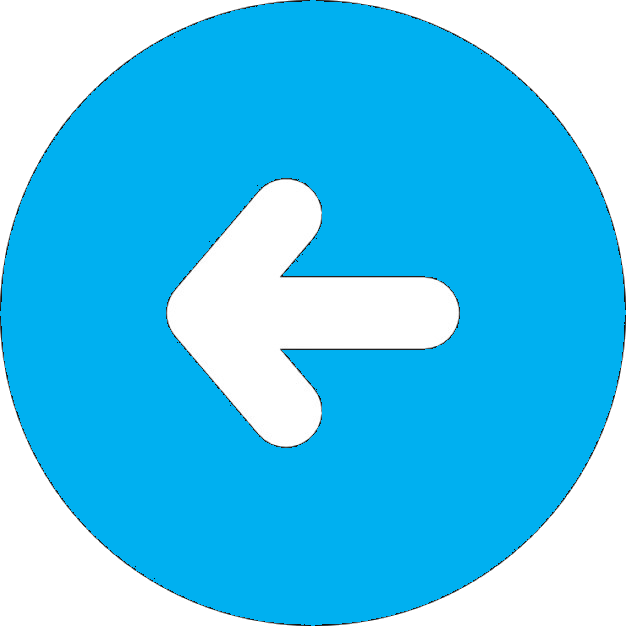
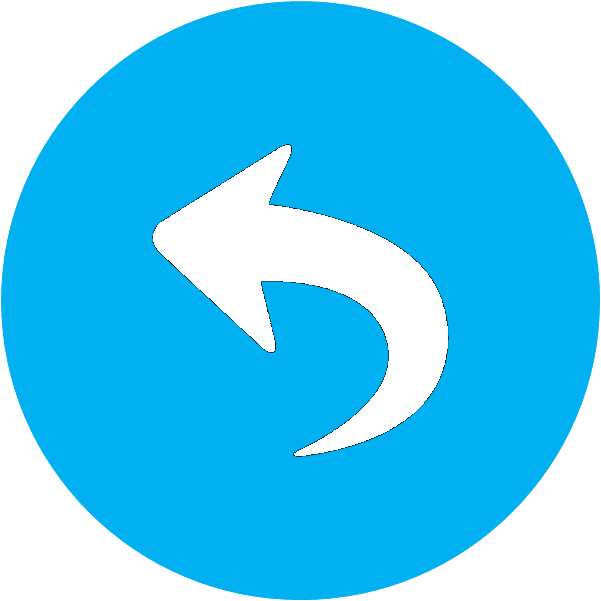
upload back image and exit image

diff --git a/MyGemach/components/items.js b/MyGemach/components/items.js
@@ -332,11 +332,11 @@ searchByText(text){
           <View style={{flex:1, flexDirection: 'row', alignItems:'center'}}>
             {this.state.back && <TouchableOpacity
             onPress={()=>this.removeSearch()}>
-            <Image source={require('../images/back.png')} style={{width: barHeight, height: barHeight}}/>
+            <Image source={require('../images/exit.png')} style={{width: barHeight, height: barHeight}}/>
           </TouchableOpacity> ||
           <TouchableOpacity
               onPress={() => console.log('setting was press')}>
-              <Image source={require('../images/setting.png')} style={{width: barHeight, height: barHeight}}/>
+              <Image source={require('../images/back.png')} style={{width: barHeight, height: barHeight}}/>
             </TouchableOpacity>}
             <TouchableOpacity
               onPress={()=>this.openSearch()}>

diff --git a/MyGemach/components/home.js b/MyGemach/components/home.js
@@ -332,7 +332,7 @@ searchByText(text){
           <View style={{flex:1, flexDirection: 'row', alignItems:'center'}}>
             {this.state.back && <TouchableOpacity
             onPress={()=>this.removeSearch()}>
-            <Image source={require('../images/back.png')} style={{width: barHeight, height: barHeight}}/>
+            <Image source={require('../images/exit.png')} style={{width: barHeight, height: barHeight}}/>
           </TouchableOpacity> ||
           <TouchableOpacity
               onPress={() => console.log('setting was press')}>
